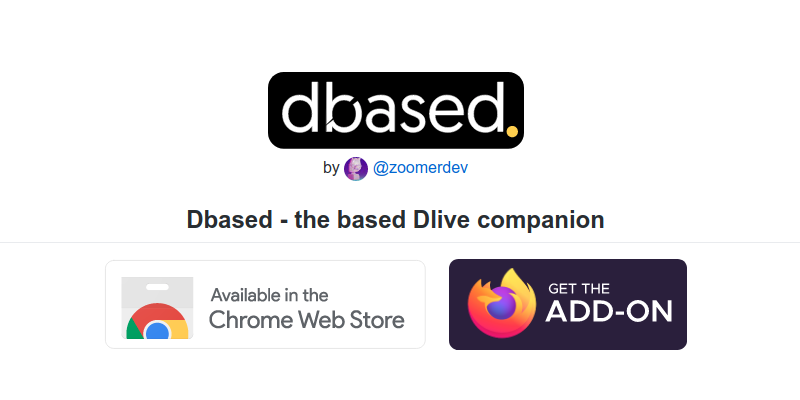
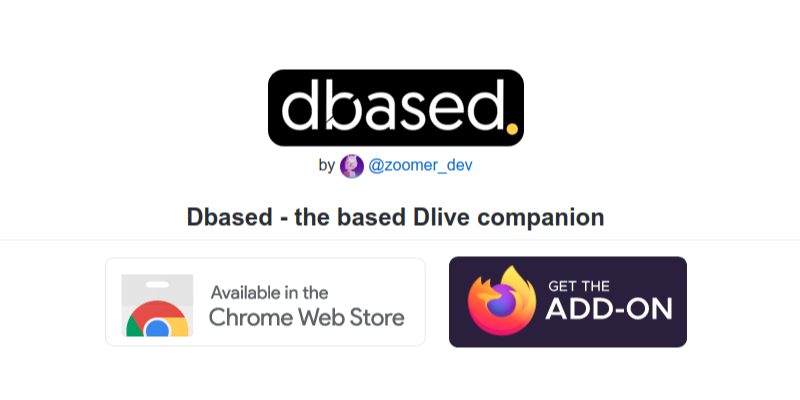
fix twitter name & image

diff --git a/README.md b/README.md
@@ -2,7 +2,7 @@
 <img src="media/banner.png"/>
 
 <p>by 
-<img style="border-radius:50%;vertical-align:middle" height="24" src="https://pbs.twimg.com/profile_images/1223786923841531904/1fZ-Mu06_normal.jpg">&nbsp;<a rel="noopener noreferrer" target="_blank" href="https://twitter.com/Zoomer_Dev">@Zoomer_Dev</a></p>
+<img style="border-radius:50%;vertical-align:middle" height="24" src="https://pbs.twimg.com/profile_images/1223786923841531904/1fZ-Mu06_normal.jpg">&nbsp;<a rel="noopener noreferrer" target="_blank" href="https://twitter.com/Zoomer_Dev">@zoomer_dev</a></p>
 <h2>Dbased - the based Dlive companion</h2>
 
 <div align="">
